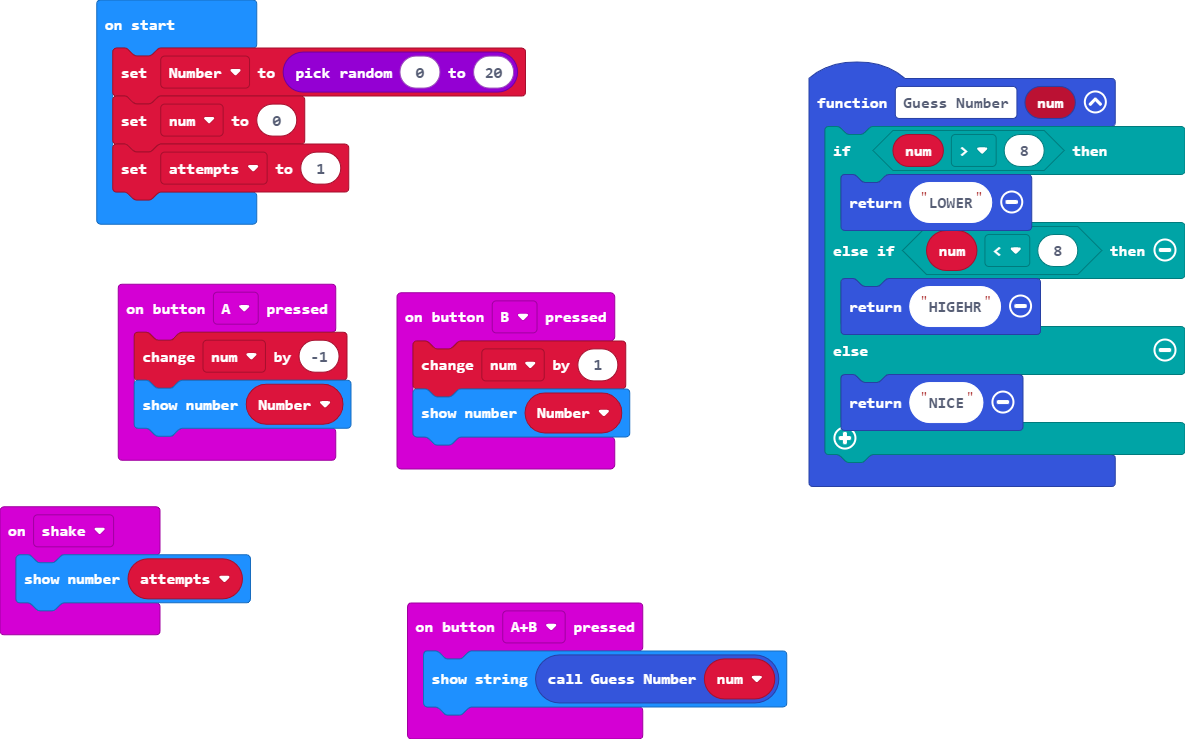
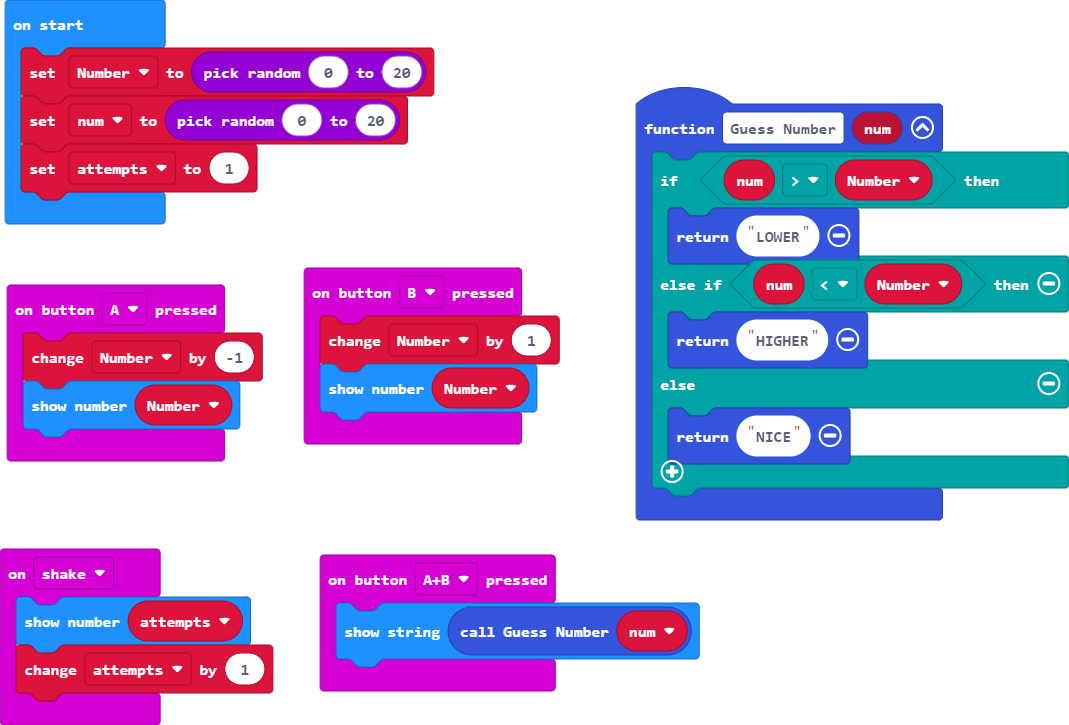
Update pxt.json, main.blocks, main.ts

diff --git a/main.ts b/main.ts
@@ -1,12 +1,12 @@
 input.onButtonPressed(Button.A, function () {
-    num += -1
+    Number2 += -1
     basic.showNumber(Number2)
 })
 function Guess_Number (num: number) {
-    if (num > 8) {
+    if (num > Number2) {
         return "LOWER"
-    } else if (num < 8) {
-        return "HIGEHR"
+    } else if (num < Number2) {
+        return "HIGHER"
     } else {
         return "NICE"
     }
@@ -15,15 +15,16 @@ input.onButtonPressed(Button.AB, function () {
     basic.showString("" + (Guess_Number(num)))
 })
 input.onButtonPressed(Button.B, function () {
-    num += 1
+    Number2 += 1
     basic.showNumber(Number2)
 })
 input.onGesture(Gesture.Shake, function () {
     basic.showNumber(attempts)
+    attempts += 1
 })
 let attempts = 0
 let num = 0
 let Number2 = 0
 Number2 = randint(0, 20)
-num = 0
+num = randint(0, 20)
 attempts = 1
